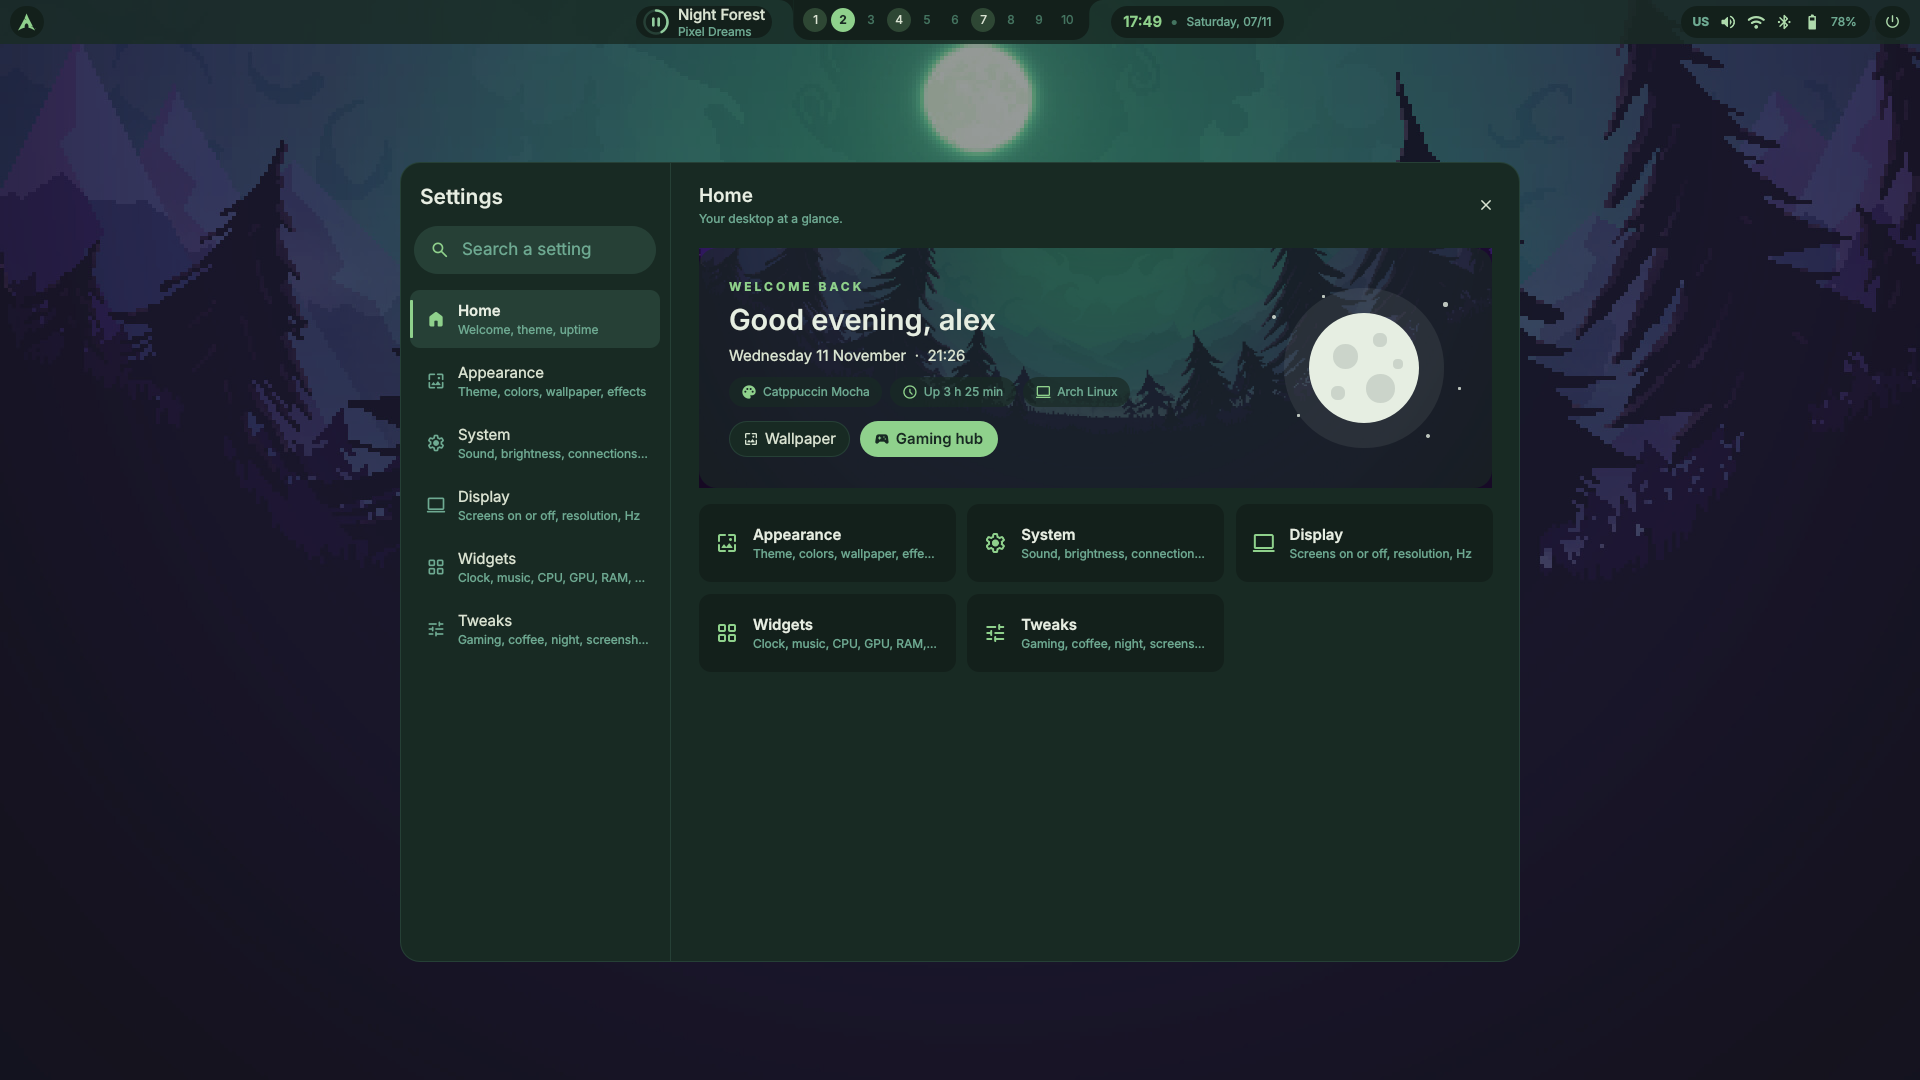
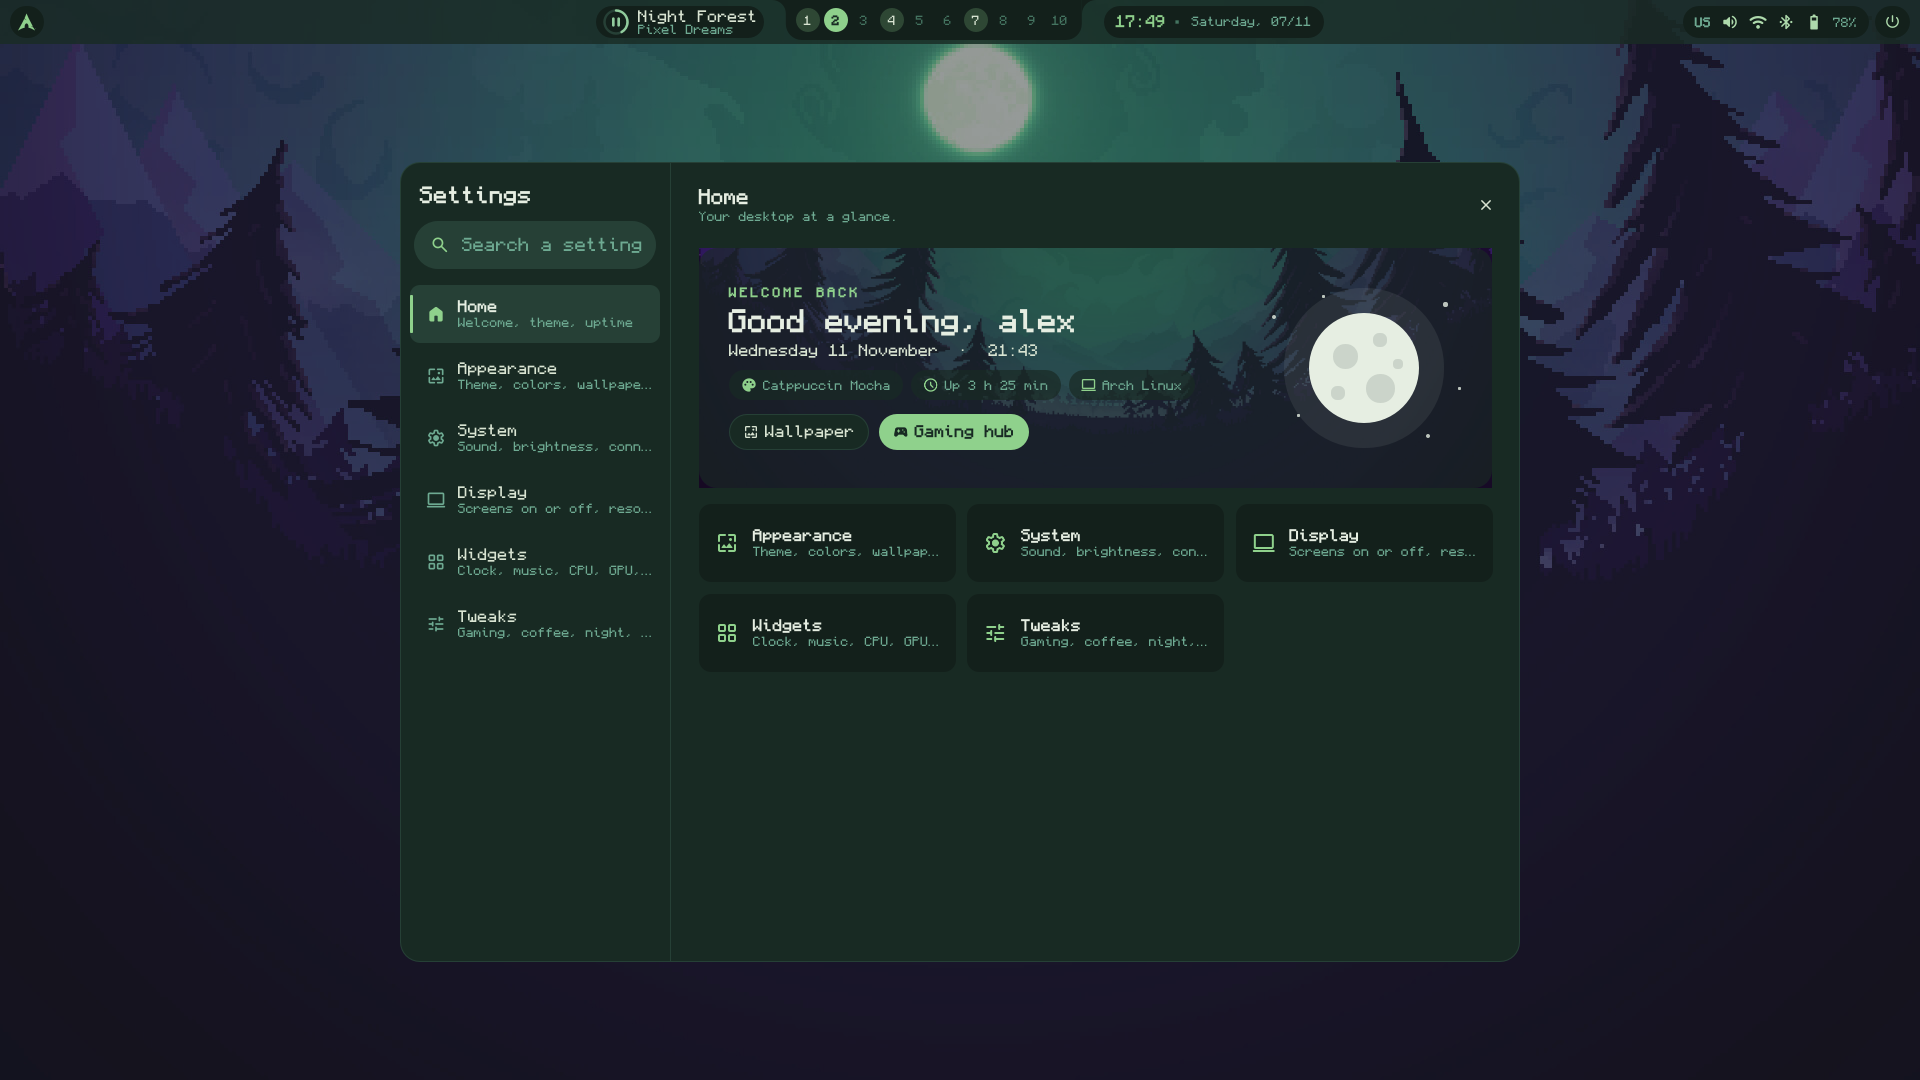
Monocraft everywhere by default: tfem fonts fetch, kitty, GTK, Qt, Hyprland, shell and login screen
Claude-Session: https://claude.ai/code/session_01DQMVUPKUY5DvQErgSP3F1U

diff --git a/scripts/fonts.py b/scripts/fonts.py
@@ -1,0 +1,75 @@
+"""Fonts: download Monocraft, the pixel font used everywhere by default.
+
+Usage: fonts.py fetch [--fonts DIR]
+Downloads Monocraft (github.com/IdreesInc/Monocraft, SIL Open Font License
+1.1, not stored in this repository), a pinned release checked against its
+SHA-256, into ~/.local/share/fonts/Monocraft with its license, then refreshes
+the font cache. Safe to run again: a font already there is kept.
+"""
+from __future__ import annotations
+
+import argparse
+import hashlib
+import os
+import shutil
+import subprocess
+import sys
+import tempfile
+import urllib.request
+from pathlib import Path
+from typing import Mapping
+
+from theming.paths import Paths  # noqa: E402  (scripts/ is on sys.path)
+
+ROOT = Path(__file__).resolve().parent.parent
+VERSION = "v4.2.1"
+BASE = os.environ.get("TFEM_MONOCRAFT_URL", f"https://github.com/IdreesInc/Monocraft/releases/download/{VERSION}")
+LICENSE_URL = os.environ.get("TFEM_MONOCRAFT_LICENSE_URL",
+                             f"https://raw.githubusercontent.com/IdreesInc/Monocraft/{VERSION}/LICENSE")
+FILE = "Monocraft.ttc"   # every weight, regular and italic, in one file
[1 lines of base64/hex data omitted]
+
+
+def download(url: str, target: Path) -> None:
+    with urllib.request.urlopen(url, timeout=60) as response, target.open("wb") as out:
+        shutil.copyfileobj(response, out)
+
+
+def fetch(fonts: Path) -> int:
+    folder = fonts / "Monocraft"
+    if (folder / FILE).is_file():
+        print(f"Monocraft already in {folder}")
+        return 0
+    folder.mkdir(parents=True, exist_ok=True)
+    with tempfile.TemporaryDirectory(prefix="monocraft-", dir=folder) as temp:
+        part = Path(temp) / FILE
+        try:
+            download(f"{BASE}/{FILE}", part)
+            download(LICENSE_URL, Path(temp) / "LICENSE")
+        except OSError as error:
+            print(f"error: could not download Monocraft: {error}", file=sys.stderr)
+            return 2
+        digest = hashlib.sha256(part.read_bytes()).hexdigest()
+        if digest != SHA256:
+            print(f"error: Monocraft download does not match its checksum ({digest})", file=sys.stderr)
+            return 2
+        (Path(temp) / "LICENSE").replace(folder / "LICENSE")
+        part.replace(folder / FILE)
+    if shutil.which("fc-cache"):
+        subprocess.run(["fc-cache", "-f", str(folder)], capture_output=True)
+    print(f"Monocraft {VERSION} installed in {folder}")
+    return 0
+
+
+def main(argv: list[str] | None = None, env: Mapping[str, str] = os.environ) -> int:
+    parser = argparse.ArgumentParser(prog="tfem fonts", description="Download Monocraft.")
+    sub = parser.add_subparsers(dest="command", required=True)
+    fetch_cmd = sub.add_parser("fetch", help="download Monocraft into your fonts folder")
+    fetch_cmd.add_argument("--fonts", type=Path, help="fonts folder (default: ~/.local/share/fonts)")
+    args = parser.parse_args(argv)
+    paths = Paths.from_env(ROOT, env)
+    return fetch(args.fonts or paths.data_home / "fonts")
+
+
+if __name__ == "__main__":
+    sys.exit(main())

diff --git a/tests/test_fonts.py b/tests/test_fonts.py
@@ -1,0 +1,63 @@
+"""`tfem fonts fetch`: Monocraft from a local server, checked against its
+SHA-256, installed once with its license."""
+import contextlib
+import hashlib
+import http.server
+import io
+import sys
+import threading
+import unittest
+from functools import partial
+from pathlib import Path
+from unittest import mock
+
+from helpers import SandboxTest
+
+import fonts  # noqa: E402
+
+
+class Quiet(http.server.SimpleHTTPRequestHandler):
+    def log_message(self, *args):
+        pass
+
+
+class FetchTest(SandboxTest):
+    def setUp(self):
+        super().setUp()
+        served = self.home / "served"
+        served.mkdir()
+        (served / "Monocraft.ttc").write_bytes(b"pixel font")
+        (served / "LICENSE").write_text("SIL Open Font License 1.1\n")
+        server = http.server.ThreadingHTTPServer(("127.0.0.1", 0), partial(Quiet, directory=str(served)))
+        threading.Thread(target=server.serve_forever, daemon=True).start()
+        self.addCleanup(server.shutdown)
+        base = f"http://127.0.0.1:{server.server_address[1]}"
+        self.urls = {"BASE": base, "LICENSE_URL": f"{base}/LICENSE"}
+        self.fonts = self.home / ".local/share/fonts"
+
+    def fetch(self, sha256=hashlib.sha256(b"pixel font").hexdigest()):
+        out = io.StringIO()
+        env = {**self.env, "PATH": "/nonexistent"}   # no fc-cache: nothing else touched
+        with mock.patch.multiple(fonts, SHA256=sha256, **self.urls), \
+                contextlib.redirect_stdout(out), contextlib.redirect_stderr(out):
+            return fonts.main(["fetch"], env=env), out.getvalue()
+
+    def test_installs_the_font_and_its_license_once(self):
+        code, output = self.fetch()
+        self.assertEqual(code, 0, output)
+        self.assertEqual((self.fonts / "Monocraft/Monocraft.ttc").read_bytes(), b"pixel font")
+        self.assertIn("Open Font License", (self.fonts / "Monocraft/LICENSE").read_text())
+        code, output = self.fetch()
+        self.assertEqual(code, 0)
+        self.assertIn("already", output)
+
+    def test_a_download_that_does_not_match_is_refused(self):
+        code, output = self.fetch("0" * 64)
+        self.assertEqual(code, 2)
+        self.assertIn("checksum", output)
+        self.assertFalse((self.fonts / "Monocraft/Monocraft.ttc").exists())
+        self.assertEqual([p.name for p in (self.fonts / "Monocraft").iterdir()], [])
+
+
+if __name__ == "__main__":
+    unittest.main(argv=sys.argv)

diff --git a/tests/test_sddm.py b/tests/test_sddm.py
@@ -42,7 +42,7 @@ class BuildTest(SandboxTest):
                 values = conf(dest / "theme.conf")
                 self.assertEqual(values["accent"], "#8fd18c")   # Pine
                 self.assertEqual(values["background"], "")       # no wallpaper set
-                self.assertEqual(values["font"], "Inter")
+                self.assertEqual(values["font"], "Monocraft")
 
     def test_the_wallpaper_is_copied_next_to_the_theme(self):
         image = self.home / "Pictures/Wallpapers/cats/tabby.png"
@@ -77,6 +77,7 @@ class InstallTest(SandboxTest):
         env = {**os.environ, **self.env, "TFEM_SUDO": "", "TFEM_SDDM_THEMES": str(system / "themes"),
                "TFEM_SDDM_CONF": str(system / "etc/sddm.conf.d/zz-login-theme.conf"),
                "TFEM_SDDM_MAIN_CONF": str(system / "etc/sddm.conf"), "TFEM_DM_LINK": str(link),
+               "TFEM_SYSTEM_FONTS": str(system / "fonts/monocraft"),
                "PATH": f"{fake}:/usr/bin:/bin"}
         done = subprocess.run([sys.executable, str(REPO / "scripts/sddm.py"), "install", *args], env=env,
                               capture_output=True, text=True, timeout=60)
@@ -90,10 +91,19 @@ class InstallTest(SandboxTest):
         self.assertIn("SDDM is not installed", output)
         self.assertFalse((system / "systemctl.log").exists())  # no --enable: SDDM left off
 
+    def test_monocraft_is_copied_where_the_login_screen_can_read_it(self):
+        font = self.home / ".local/share/fonts/Monocraft/Monocraft.ttc"
+        font.parent.mkdir(parents=True)
+        font.write_bytes(b"ttc")
+        code, output, system = self.install()
+        self.assertEqual(code, 0, output)
+        self.assertEqual((system / "fonts/monocraft/Monocraft.ttc").read_bytes(), b"ttc")
+
     def test_the_stacked_clock_is_the_default(self):
         code, output, system = self.install()
         self.assertEqual(code, 0, output)
         self.assertIn("Current=stacked-clock", (system / "etc/sddm.conf.d/zz-login-theme.conf").read_text())
+        self.assertFalse((system / "fonts").exists())   # Monocraft not downloaded: nothing to copy
 
     def test_the_theme_reads_its_colors_from_a_folder_you_own(self):
         # theme.conf.user links to the folder `tfem generate` keeps up to date.

diff --git a/scripts/sddm.py b/scripts/sddm.py
@@ -40,6 +40,9 @@ THEMES_DIR = Path(os.environ.get("TFEM_SDDM_THEMES", "/usr/share/sddm/themes"))
 CONF = Path(os.environ.get("TFEM_SDDM_CONF", "/etc/sddm.conf.d/zz-login-theme.conf"))
 MAIN_CONF = Path(os.environ.get("TFEM_SDDM_MAIN_CONF", "/etc/sddm.conf"))
 SUDO = os.environ.get("TFEM_SUDO", "sudo")
+# The login screen runs as its own user, who cannot read your fonts: Monocraft
+# is copied here for it (every user may use it then).
+SYSTEM_FONTS = Path(os.environ.get("TFEM_SYSTEM_FONTS", "/usr/local/share/fonts/monocraft"))
 # The login manager systemd starts; another one than SDDM is never replaced.
 DM_LINK = Path(os.environ.get("TFEM_DM_LINK", "/etc/systemd/system/display-manager.service"))
 
@@ -109,6 +112,10 @@ def install(name: str, paths: Paths, enable: bool, env: Mapping[str, str]) -> in
             f"chmod 755 {q(folder)} {q(folder.parent)}",
             f"mkdir -p {q(CONF.parent)}", f"printf '%s' {q(conf)} > {q(CONF)}",
         ]
+        font = paths.data_home / "fonts/Monocraft/Monocraft.ttc"   # `tfem fonts fetch`
+        if font.is_file():
+            steps += [f"mkdir -p {q(SYSTEM_FONTS)}", f"cp {q(font)} {q(SYSTEM_FONTS / font.name)}",
+                      f"chmod -R a+rX {q(SYSTEM_FONTS)}", "fc-cache -f >/dev/null 2>&1 || true"]
         other = other_manager()
         if enable and not other:
             steps.append("systemctl enable sddm.service")

diff --git a/tests/test_generate.py b/tests/test_generate.py
@@ -173,7 +173,7 @@ class SafetyTest(GenerateTest):
         self.assertTrue(text.startswith("font_size 12\n"))
         self.assertTrue(text.rstrip().endswith("include theme.conf\n# <<< generated: kitty <<<"))
         # Only option names kitty knows (kitty/options/definition.py).
-        known = {"foreground", "background", "background_opacity", "dynamic_background_opacity", "selection_foreground", "selection_background", "cursor",
+        known = {"font_family", "font_size", "foreground", "background", "background_opacity", "dynamic_background_opacity", "selection_foreground", "selection_background", "cursor",
                  "cursor_text_color", "url_color", "active_border_color", "inactive_border_color",
                  "bell_border_color", "active_tab_foreground", "active_tab_background", "inactive_tab_foreground",
                  "inactive_tab_background", "tab_bar_background", *(f"mark{i}_{side}" for i in (1, 2, 3)

diff --git a/scripts/theming/context.py b/scripts/theming/context.py
@@ -57,6 +57,9 @@ def build_context(theme: Mapping[str, object], palette: Palette, paths: Paths,
     dark = palette.variant == "dark"
     context["gtk.theme"] = "adw-gtk3-dark" if dark else "adw-gtk3"
     context["gtk.color_scheme"] = "prefer-dark" if dark else "default"
+    # GTK names a font with its size: "Monocraft 11".
+    context["gtk.font"] = f'{theme["font.sans"]} {theme["font.size"]}'
+    context["gtk.mono_font"] = f'{theme["font.mono"]} {theme["font.mono_size"]}'
     # Icons: FairyWren's dark or light half, folders in the accent's color.
     context["icons.name"] = theme_name(str(theme["icons.theme"]), palette.variant)
     folders = str(theme["icons.folders"])

diff --git a/README.md b/README.md
@@ -225,6 +225,23 @@ greens only for the forests, warm oranges for Tabby. Red is kept for alerts
 only. Change it per module in `[modules]` of `theme.toml` if you want more
 color (`wifi = "blue"`, for instance).
 
+### Font
+
+**[Monocraft](https://github.com/IdreesInc/Monocraft)**, a pixel font
+(SIL Open Font License 1.1), is the font of the whole desktop by default:
+the bar, the panels, the widgets and the lock screen, the terminal, GTK and
+Qt apps, Hyprland's own messages and the login screen. The installer
+downloads it (`tfem fonts fetch`, a pinned release checked against its
+SHA-256) into `~/.local/share/fonts/Monocraft`; `tfem sddm install` also
+copies it where the login screen can read it. Inter and JetBrains Mono stay
+installed: pick another font in `theme.toml`.
+
+```toml
+[font]
+sans = "Inter"                  # the shell, GTK and Qt
+mono = "JetBrainsMono Nerd Font"  # the terminal
+```
+
 ## How theming works
 
 One file, `theme.toml`, describes the look of the whole desktop: palette,

diff --git a/CHANGELOG.md b/CHANGELOG.md
@@ -17,6 +17,12 @@ All notable changes to this project are documented here. The format follows
 
 ### Added
 
+- **Monocraft**, a pixel font, everywhere by default: the shell, the lock
+  screen, kitty (`font_family`), GTK (`font-name`, `monospace-font-name`),
+  Qt (qt5ct and qt6ct `[Fonts]`), Hyprland and the login screen. The
+  installer downloads it with `tfem fonts fetch` (release v4.2.1, checked
+  against its SHA-256; `--no-fonts` skips it), and `tfem sddm install`
+  copies it to `/usr/local/share/fonts/monocraft` for the login screen.
 - **Pixel-art wallpapers** from wallhaven.cc: 15 forests (day, night, mist,
   snow) and 11 cats, picked by hand. Each one names its theme
   (`theme = "forest-moss"` in `wallpapers/collection.toml`): day forests
